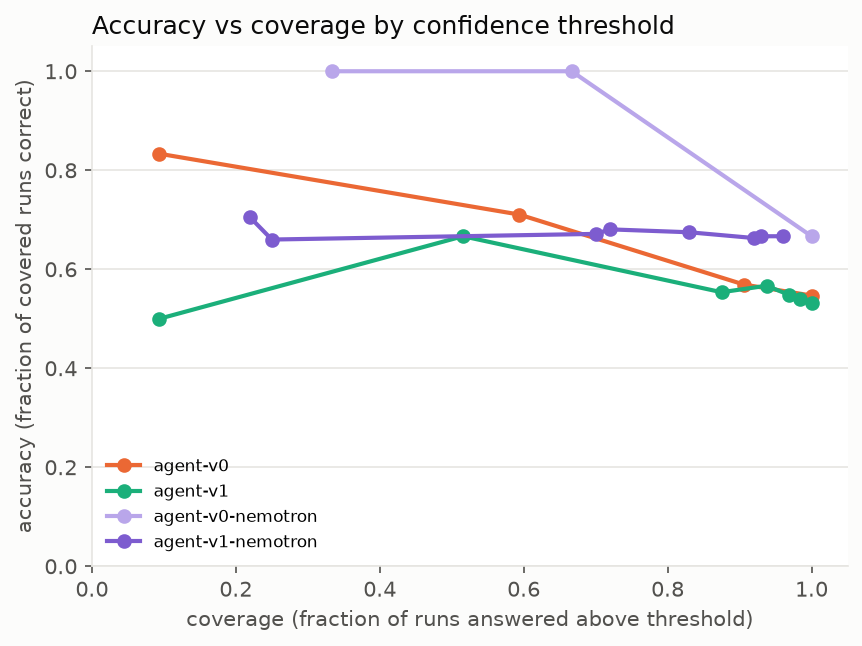
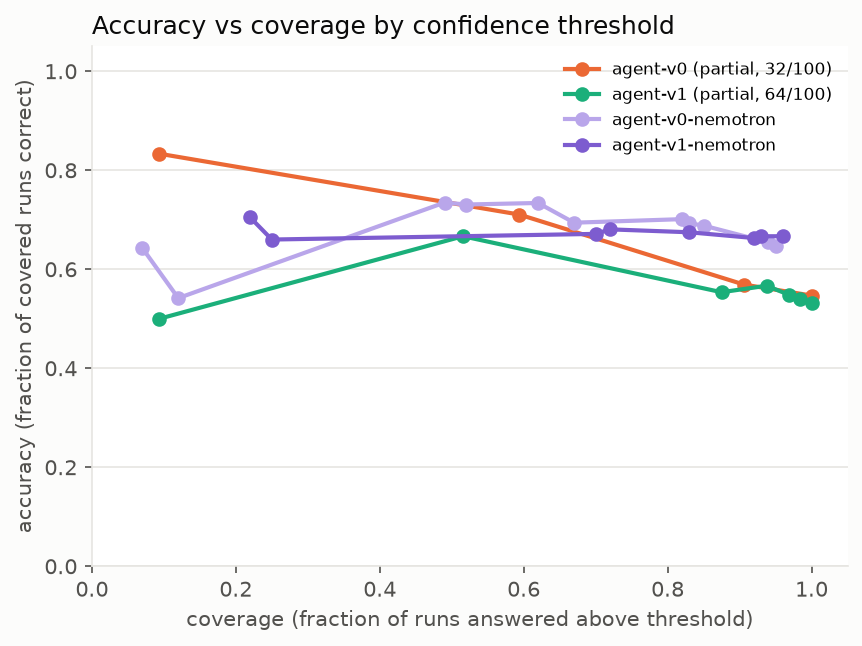
Report regenerated: all four Nemotron batches complete (v0, v1, no-priors, vague-alert); partial Gemini batches marked against planned runs

diff --git a/docs/results/report.md b/docs/results/report.md
@@ -8,51 +8,49 @@ Accuracy is the mean over scenarios of each scenario's mean; ± is the sd across
 
 | category | heuristic | agent-v0 | agent-v1 | agent-v1-nopriors | agent-v1-vague | agent-v0-nemotron | agent-v1-nemotron | agent-v1-nemotron-nopriors | agent-v1-nemotron-vague |
 |---|---|---|---|---|---|---|---|---|---|
-| easy | 0.67 ± - (3/3 sc, 1 run) | 0.67 ± - (3/3 sc, 1-2 runs) | 0.67 ± 0.00 (3/3 sc, 3-4 runs) | not run | not run | 1.00 ± - (1/3 sc, 1 run) | 0.87 ± 0.16 (3/3 sc, 5 runs) | not run | not run |
-| hard-cross-service | 0.00 ± - (3/3 sc, 1 run) | 0.00 ± - (3/3 sc, 1-2 runs) | 0.11 ± 0.16 (3/3 sc, 3 runs) | not run | not run | - | 0.33 ± 0.21 (3/3 sc, 5 runs) | not run | not run |
-| hard-silent | 0.83 ± - (6/6 sc, 1 run) | 0.42 ± - (6/6 sc, 1-2 runs) | 0.39 ± 0.21 (6/6 sc, 3-4 runs) | not run | not run | 0.50 ± - (2/6 sc, 1 run) | 0.80 ± 0.12 (6/6 sc, 5 runs) | not run | not run |
-| hard-noisy | 0.50 ± - (2/2 sc, 1 run) | 0.75 ± - (2/2 sc, 1-2 runs) | 0.67 ± 0.24 (2/2 sc, 3 runs) | not run | not run | - | 0.60 ± 0.20 (2/2 sc, 5 runs) | not run | not run |
-| hard-two-faults | 0.75 ± - (2/2 sc, 1 run) | 0.25 ± - (2/2 sc, 1-2 runs) | 0.17 ± 0.24 (2/2 sc, 3 runs) | not run | not run | - | 0.60 ± 0.25 (2/2 sc, 5 runs) | not run | not run |
-| control | 0.75 ± - (4/4 sc, 1 run) | 1.00 ± 0.00 (4/4 sc, 2 runs) | 1.00 ± 0.00 (4/4 sc, 3-4 runs) | not run | not run | - | 0.50 ± 0.16 (4/4 sc, 5 runs) | not run | not run |
-| all incidents | 0.59 ± - (16/16 sc, 1 run) | 0.41 ± - (16/16 sc, 1-2 runs) | 0.40 ± 0.11 (16/16 sc, 3-4 runs) | not run | not run | 0.67 ± - (3/16 sc, 1 run) | 0.68 ± 0.04 (16/16 sc, 5 runs) | not run | not run |
+| easy | 0.67 ± - (3/3 sc, 1 run) | 0.67 ± - (3/3 sc, 1-2 runs) | 0.67 ± 0.00 (3/3 sc, 3-4 runs) | not run | not run | 1.00 ± 0.00 (3/3 sc, 5 runs) | 0.87 ± 0.16 (3/3 sc, 5 runs) | 0.93 ± 0.13 (3/3 sc, 5 runs) | 0.87 ± 0.16 (3/3 sc, 5 runs) |
+| hard-cross-service | 0.00 ± - (3/3 sc, 1 run) | 0.00 ± - (3/3 sc, 1-2 runs) | 0.11 ± 0.16 (3/3 sc, 3 runs) | not run | not run | 0.67 ± 0.21 (3/3 sc, 5 runs) | 0.33 ± 0.21 (3/3 sc, 5 runs) | 0.27 ± 0.13 (3/3 sc, 5 runs) | 0.27 ± 0.25 (3/3 sc, 5 runs) |
+| hard-silent | 0.83 ± - (6/6 sc, 1 run) | 0.42 ± - (6/6 sc, 1-2 runs) | 0.39 ± 0.21 (6/6 sc, 3-4 runs) | not run | not run | 0.63 ± 0.12 (6/6 sc, 5 runs) | 0.80 ± 0.12 (6/6 sc, 5 runs) | 0.73 ± 0.13 (6/6 sc, 5 runs) | 0.57 ± 0.08 (6/6 sc, 5 runs) |
+| hard-noisy | 0.50 ± - (2/2 sc, 1 run) | 0.75 ± - (2/2 sc, 1-2 runs) | 0.67 ± 0.24 (2/2 sc, 3 runs) | not run | not run | 0.70 ± 0.24 (2/2 sc, 5 runs) | 0.60 ± 0.20 (2/2 sc, 5 runs) | 0.60 ± 0.20 (2/2 sc, 5 runs) | 0.60 ± 0.20 (2/2 sc, 5 runs) |
+| hard-two-faults | 0.75 ± - (2/2 sc, 1 run) | 0.25 ± - (2/2 sc, 1-2 runs) | 0.17 ± 0.24 (2/2 sc, 3 runs) | not run | not run | 0.45 ± 0.10 (2/2 sc, 5 runs) | 0.60 ± 0.25 (2/2 sc, 5 runs) | 0.75 ± 0.16 (2/2 sc, 5 runs) | 0.45 ± 0.10 (2/2 sc, 5 runs) |
+| control | 0.75 ± - (4/4 sc, 1 run) | 1.00 ± 0.00 (4/4 sc, 2 runs) | 1.00 ± 0.00 (4/4 sc, 3-4 runs) | not run | not run | 0.30 ± 0.19 (4/4 sc, 5 runs) | 0.50 ± 0.16 (4/4 sc, 5 runs) | 0.50 ± 0.16 (4/4 sc, 5 runs) | 0.25 ± 0.16 (4/4 sc, 5 runs) |
+| all incidents | 0.59 ± - (16/16 sc, 1 run) | 0.41 ± - (16/16 sc, 1-2 runs) | 0.40 ± 0.11 (16/16 sc, 3-4 runs) | not run | not run | 0.69 ± 0.07 (16/16 sc, 5 runs) | 0.68 ± 0.04 (16/16 sc, 5 runs) | 0.67 ± 0.05 (16/16 sc, 5 runs) | 0.56 ± 0.12 (16/16 sc, 5 runs) |
 
-agent-v0: partial batch (1-2 runs per scenario, 32/40 runs)
+agent-v0: partial batch (1-2 runs per scenario, 32/100 runs)
 
-agent-v1: partial batch (3-4 runs per scenario, 64/80 runs)
-
-agent-v0-nemotron: partial batch (0-1 runs per scenario, 3/20 runs)
+agent-v1: partial batch (3-4 runs per scenario, 64/100 runs)
 
 ### Split: tune
 
 | category | heuristic | agent-v0 | agent-v1 | agent-v1-nopriors | agent-v1-vague | agent-v0-nemotron | agent-v1-nemotron | agent-v1-nemotron-nopriors | agent-v1-nemotron-vague |
 |---|---|---|---|---|---|---|---|---|---|
-| easy | 1.00 ± - (2/2 sc, 1 run) | 0.50 ± - (2/2 sc, 1-2 runs) | 1.00 ± 0.00 (2/2 sc, 3-4 runs) | not run | not run | 1.00 ± - (1/2 sc, 1 run) | 1.00 ± 0.00 (2/2 sc, 5 runs) | not run | not run |
-| hard-cross-service | 0.00 ± - (2/2 sc, 1 run) | 0.00 ± - (2/2 sc, 1-2 runs) | 0.00 ± 0.00 (2/2 sc, 3 runs) | not run | not run | - | 0.30 ± 0.24 (2/2 sc, 5 runs) | not run | not run |
-| hard-silent | 0.80 ± - (5/5 sc, 1 run) | 0.50 ± - (5/5 sc, 1-2 runs) | 0.47 ± 0.25 (5/5 sc, 3-4 runs) | not run | not run | 0.50 ± - (2/5 sc, 1 run) | 0.76 ± 0.15 (5/5 sc, 5 runs) | not run | not run |
-| hard-noisy | 0.00 ± - (1/1 sc, 1 run) | 0.50 ± 0.50 (1/1 sc, 2 runs) | 0.33 ± 0.47 (1/1 sc, 3 runs) | not run | not run | - | 0.20 ± 0.40 (1/1 sc, 5 runs) | not run | not run |
-| hard-two-faults | 0.50 ± - (1/1 sc, 1 run) | 0.00 ± 0.00 (1/1 sc, 2 runs) | 0.17 ± 0.24 (1/1 sc, 3 runs) | not run | not run | - | 0.50 ± 0.32 (1/1 sc, 5 runs) | not run | not run |
-| control | 0.67 ± - (3/3 sc, 1 run) | 1.00 ± 0.00 (3/3 sc, 2 runs) | 1.00 ± 0.00 (3/3 sc, 3-4 runs) | not run | not run | - | 0.53 ± 0.16 (3/3 sc, 5 runs) | not run | not run |
-| all incidents | 0.59 ± - (11/11 sc, 1 run) | 0.36 ± - (11/11 sc, 1-2 runs) | 0.44 ± 0.12 (11/11 sc, 3-4 runs) | not run | not run | 0.67 ± - (3/11 sc, 1 run) | 0.65 ± 0.05 (11/11 sc, 5 runs) | not run | not run |
+| easy | 1.00 ± - (2/2 sc, 1 run) | 0.50 ± - (2/2 sc, 1-2 runs) | 1.00 ± 0.00 (2/2 sc, 3-4 runs) | not run | not run | 1.00 ± 0.00 (2/2 sc, 5 runs) | 1.00 ± 0.00 (2/2 sc, 5 runs) | 1.00 ± 0.00 (2/2 sc, 5 runs) | 1.00 ± 0.00 (2/2 sc, 5 runs) |
+| hard-cross-service | 0.00 ± - (2/2 sc, 1 run) | 0.00 ± - (2/2 sc, 1-2 runs) | 0.00 ± 0.00 (2/2 sc, 3 runs) | not run | not run | 0.60 ± 0.20 (2/2 sc, 5 runs) | 0.30 ± 0.24 (2/2 sc, 5 runs) | 0.30 ± 0.24 (2/2 sc, 5 runs) | 0.20 ± 0.24 (2/2 sc, 5 runs) |
+| hard-silent | 0.80 ± - (5/5 sc, 1 run) | 0.50 ± - (5/5 sc, 1-2 runs) | 0.47 ± 0.25 (5/5 sc, 3-4 runs) | not run | not run | 0.60 ± 0.18 (5/5 sc, 5 runs) | 0.76 ± 0.15 (5/5 sc, 5 runs) | 0.68 ± 0.16 (5/5 sc, 5 runs) | 0.48 ± 0.10 (5/5 sc, 5 runs) |
+| hard-noisy | 0.00 ± - (1/1 sc, 1 run) | 0.50 ± 0.50 (1/1 sc, 2 runs) | 0.33 ± 0.47 (1/1 sc, 3 runs) | not run | not run | 0.40 ± 0.49 (1/1 sc, 5 runs) | 0.20 ± 0.40 (1/1 sc, 5 runs) | 0.40 ± 0.49 (1/1 sc, 5 runs) | 0.20 ± 0.40 (1/1 sc, 5 runs) |
+| hard-two-faults | 0.50 ± - (1/1 sc, 1 run) | 0.00 ± 0.00 (1/1 sc, 2 runs) | 0.17 ± 0.24 (1/1 sc, 3 runs) | not run | not run | 0.40 ± 0.20 (1/1 sc, 5 runs) | 0.50 ± 0.32 (1/1 sc, 5 runs) | 0.60 ± 0.20 (1/1 sc, 5 runs) | 0.40 ± 0.20 (1/1 sc, 5 runs) |
+| control | 0.67 ± - (3/3 sc, 1 run) | 1.00 ± 0.00 (3/3 sc, 2 runs) | 1.00 ± 0.00 (3/3 sc, 3-4 runs) | not run | not run | 0.33 ± 0.21 (3/3 sc, 5 runs) | 0.53 ± 0.16 (3/3 sc, 5 runs) | 0.40 ± 0.13 (3/3 sc, 5 runs) | 0.27 ± 0.13 (3/3 sc, 5 runs) |
+| all incidents | 0.59 ± - (11/11 sc, 1 run) | 0.36 ± - (11/11 sc, 1-2 runs) | 0.44 ± 0.12 (11/11 sc, 3-4 runs) | not run | not run | 0.64 ± 0.08 (11/11 sc, 5 runs) | 0.65 ± 0.05 (11/11 sc, 5 runs) | 0.64 ± 0.08 (11/11 sc, 5 runs) | 0.49 ± 0.11 (11/11 sc, 5 runs) |
 
-agent-v0: partial batch (1-2 runs per scenario, 25/28 runs)
+agent-v0: partial batch (1-2 runs per scenario, 25/70 runs)
 
-agent-v1: partial batch (3-4 runs per scenario, 46/56 runs)
-
-agent-v0-nemotron: partial batch (0-1 runs per scenario, 3/14 runs)
+agent-v1: partial batch (3-4 runs per scenario, 46/70 runs)
 
 ### Split: heldout
 
 | category | heuristic | agent-v0 | agent-v1 | agent-v1-nopriors | agent-v1-vague | agent-v0-nemotron | agent-v1-nemotron | agent-v1-nemotron-nopriors | agent-v1-nemotron-vague |
 |---|---|---|---|---|---|---|---|---|---|
-| easy | 0.00 ± - (1/1 sc, 1 run) | 1.00 ± - (1/1 sc, 1 run) | 0.00 ± 0.00 (1/1 sc, 3 runs) | not run | not run | not run | 0.60 ± 0.49 (1/1 sc, 5 runs) | not run | not run |
-| hard-cross-service | 0.00 ± - (1/1 sc, 1 run) | 0.00 ± - (1/1 sc, 1 run) | 0.33 ± 0.47 (1/1 sc, 3 runs) | not run | not run | not run | 0.40 ± 0.49 (1/1 sc, 5 runs) | not run | not run |
-| hard-silent | 1.00 ± - (1/1 sc, 1 run) | 0.00 ± - (1/1 sc, 1 run) | 0.00 ± 0.00 (1/1 sc, 3 runs) | not run | not run | not run | 1.00 ± 0.00 (1/1 sc, 5 runs) | not run | not run |
-| hard-noisy | 1.00 ± - (1/1 sc, 1 run) | 1.00 ± - (1/1 sc, 1 run) | 1.00 ± 0.00 (1/1 sc, 3 runs) | not run | not run | not run | 1.00 ± 0.00 (1/1 sc, 5 runs) | not run | not run |
-| hard-two-faults | 1.00 ± - (1/1 sc, 1 run) | 0.50 ± - (1/1 sc, 1 run) | 0.17 ± 0.24 (1/1 sc, 3 runs) | not run | not run | not run | 0.70 ± 0.24 (1/1 sc, 5 runs) | not run | not run |
-| control | 1.00 ± - (1/1 sc, 1 run) | 1.00 ± 0.00 (1/1 sc, 2 runs) | 1.00 ± 0.00 (1/1 sc, 3 runs) | not run | not run | not run | 0.40 ± 0.49 (1/1 sc, 5 runs) | not run | not run |
-| all incidents | 0.60 ± - (5/5 sc, 1 run) | 0.50 ± - (5/5 sc, 1 run) | 0.30 ± 0.08 (5/5 sc, 3 runs) | not run | not run | not run | 0.74 ± 0.14 (5/5 sc, 5 runs) | not run | not run |
+| easy | 0.00 ± - (1/1 sc, 1 run) | 1.00 ± - (1/1 sc, 1 run) | 0.00 ± 0.00 (1/1 sc, 3 runs) | not run | not run | 1.00 ± 0.00 (1/1 sc, 5 runs) | 0.60 ± 0.49 (1/1 sc, 5 runs) | 0.80 ± 0.40 (1/1 sc, 5 runs) | 0.60 ± 0.49 (1/1 sc, 5 runs) |
+| hard-cross-service | 0.00 ± - (1/1 sc, 1 run) | 0.00 ± - (1/1 sc, 1 run) | 0.33 ± 0.47 (1/1 sc, 3 runs) | not run | not run | 0.80 ± 0.40 (1/1 sc, 5 runs) | 0.40 ± 0.49 (1/1 sc, 5 runs) | 0.20 ± 0.40 (1/1 sc, 5 runs) | 0.40 ± 0.49 (1/1 sc, 5 runs) |
+| hard-silent | 1.00 ± - (1/1 sc, 1 run) | 0.00 ± - (1/1 sc, 1 run) | 0.00 ± 0.00 (1/1 sc, 3 runs) | not run | not run | 0.80 ± 0.40 (1/1 sc, 5 runs) | 1.00 ± 0.00 (1/1 sc, 5 runs) | 1.00 ± 0.00 (1/1 sc, 5 runs) | 1.00 ± 0.00 (1/1 sc, 5 runs) |
+| hard-noisy | 1.00 ± - (1/1 sc, 1 run) | 1.00 ± - (1/1 sc, 1 run) | 1.00 ± 0.00 (1/1 sc, 3 runs) | not run | not run | 1.00 ± 0.00 (1/1 sc, 5 runs) | 1.00 ± 0.00 (1/1 sc, 5 runs) | 0.80 ± 0.40 (1/1 sc, 5 runs) | 1.00 ± 0.00 (1/1 sc, 5 runs) |
+| hard-two-faults | 1.00 ± - (1/1 sc, 1 run) | 0.50 ± - (1/1 sc, 1 run) | 0.17 ± 0.24 (1/1 sc, 3 runs) | not run | not run | 0.50 ± 0.00 (1/1 sc, 5 runs) | 0.70 ± 0.24 (1/1 sc, 5 runs) | 0.90 ± 0.20 (1/1 sc, 5 runs) | 0.50 ± 0.00 (1/1 sc, 5 runs) |
+| control | 1.00 ± - (1/1 sc, 1 run) | 1.00 ± 0.00 (1/1 sc, 2 runs) | 1.00 ± 0.00 (1/1 sc, 3 runs) | not run | not run | 0.20 ± 0.40 (1/1 sc, 5 runs) | 0.40 ± 0.49 (1/1 sc, 5 runs) | 0.80 ± 0.40 (1/1 sc, 5 runs) | 0.20 ± 0.40 (1/1 sc, 5 runs) |
+| all incidents | 0.60 ± - (5/5 sc, 1 run) | 0.50 ± - (5/5 sc, 1 run) | 0.30 ± 0.08 (5/5 sc, 3 runs) | not run | not run | 0.82 ± 0.10 (5/5 sc, 5 runs) | 0.74 ± 0.14 (5/5 sc, 5 runs) | 0.74 ± 0.15 (5/5 sc, 5 runs) | 0.70 ± 0.18 (5/5 sc, 5 runs) |
 
-agent-v0: partial batch (1-2 runs per scenario, 7/12 runs)
+agent-v0: partial batch (1-2 runs per scenario, 7/30 runs)
+
+agent-v1: partial batch (3 runs per scenario, 18/30 runs)
 
 Held-out categories have one scenario each; read the all-incidents row.
 
@@ -71,10 +69,10 @@ False alarm = claiming an incident on a control; abstain = insufficient evidence
 | agent-v1 | 0.00 | 0.00 |
 | agent-v1-nopriors | not run | not run |
 | agent-v1-vague | not run | not run |
-| agent-v0-nemotron | - | 0.00 |
+| agent-v0-nemotron | 0.60 | 0.04 |
 | agent-v1-nemotron | 0.35 | 0.01 |
-| agent-v1-nemotron-nopriors | not run | not run |
-| agent-v1-nemotron-vague | not run | not run |
+| agent-v1-nemotron-nopriors | 0.35 | 0.03 |
+| agent-v1-nemotron-vague | 0.70 | 0.06 |
 
 ## Evidence (all split, incidents)
 
@@ -89,8 +87,8 @@ Grounded = cited evidence exists in the snapshot; distinctive = it also looks an
 | agent-v1-vague | not run | not run |
 | agent-v0-nemotron | n/a (free-text evidence) | n/a (free-text evidence) |
 | agent-v1-nemotron | 0.98 | 0.89 |
-| agent-v1-nemotron-nopriors | not run | not run |
-| agent-v1-nemotron-vague | not run | not run |
+| agent-v1-nemotron-nopriors | 0.94 | 0.85 |
+| agent-v1-nemotron-vague | 0.97 | 0.90 |
 
 ## Paired comparisons (all split, fault incidents)
 
@@ -103,13 +101,13 @@ Each solver's mean score per incident, compared on the incidents both have run. 
 | agent-v1 vs agent-v0 | 16/16 | 4 / 7 / 5 | -0.01 | -0.23 to +0.21 |
 | agent-v1-nemotron vs heuristic | 16/16 | 5 / 8 / 3 | +0.08 | -0.05 to +0.23 |
 | agent-v1-nemotron vs agent-v1 | 16/16 | 10 / 4 / 2 | +0.28 | +0.12 to +0.45 |
-| agent-v1-nemotron vs agent-v0-nemotron | 3/16 | 1 / 1 / 1 | +0.13 | n/a (too few incidents or no spread) |
+| agent-v1-nemotron vs agent-v0-nemotron | 16/16 | 6 / 4 / 6 | -0.02 | -0.14 to +0.11 |
+| agent-v1-nemotron-nopriors vs agent-v1-nemotron | 16/16 | 4 / 8 / 4 | -0.01 | -0.07 to +0.06 |
+| agent-v1-nemotron-vague vs agent-v1-nemotron | 16/16 | 1 / 9 / 6 | -0.12 | -0.25 to -0.01 |
 
-agent-v0: partial batch (1-2 runs per scenario, 32/40 runs)
+agent-v0: partial batch (1-2 runs per scenario, 32/100 runs)
 
-agent-v1: partial batch (3-4 runs per scenario, 64/80 runs)
-
-agent-v0-nemotron: partial batch (0-1 runs per scenario, 3/20 runs)
+agent-v1: partial batch (3-4 runs per scenario, 64/100 runs)
 
 ## Step limit (all split, fault runs)
 
@@ -119,8 +117,10 @@ An agent that is still calling tools after 15 model turns is told to give its fi
 |---|---|---|---|---|---|
 | agent-v0 | 24 | 9 (38%) | 3 of 9 | 0.56 | 0.30 |
 | agent-v1 | 51 | 32 (63%) | 19 of 32 | 0.28 | 0.63 |
-| agent-v0-nemotron | 3 | 3 (100%) | 0 of 3 | 0.67 | - |
+| agent-v0-nemotron | 80 | 77 (96%) | 0 of 77 | 0.69 | 0.67 |
 | agent-v1-nemotron | 80 | 57 (71%) | 2 of 57 | 0.61 | 0.83 |
+| agent-v1-nemotron-nopriors | 80 | 53 (66%) | 0 of 53 | 0.62 | 0.76 |
+| agent-v1-nemotron-vague | 80 | 64 (80%) | 3 of 64 | 0.51 | 0.75 |
 
 ## Cost
 
@@ -133,10 +133,10 @@ The heuristic makes no model calls, so it has no token usage.
 | agent-v1 | 64 / 64 | 14.12 | 16 | 75211 | 524 | 142560 |
 | agent-v1-nopriors | not run | not run | not run | not run | not run | not run |
 | agent-v1-vague | not run | not run | not run | not run | not run | not run |
-| agent-v0-nemotron | 3 / 3 | 16.00 | 16 | 69030 | 3032 | 108093 |
+| agent-v0-nemotron | 100 / 100 | 15.96 | 17 | 74265 | 3274 | 126080 |
 | agent-v1-nemotron | 100 / 100 | 15.06 | 17 | 94309 | 3761 | 153234 |
-| agent-v1-nemotron-nopriors | not run | not run | not run | not run | not run | not run |
-| agent-v1-nemotron-vague | not run | not run | not run | not run | not run | not run |
+| agent-v1-nemotron-nopriors | 100 / 100 | 14.85 | 17 | 89252 | 3534 | 146119 |
+| agent-v1-nemotron-vague | 100 / 100 | 15.17 | 17 | 89947 | 3687 | 189160 |
 
 ## Per-scenario accuracy
 
@@ -144,26 +144,26 @@ The heuristic makes no model calls, so it has no token usage.
 
 | scenario | category | heuristic | agent-v0 | agent-v1 | agent-v1-nopriors | agent-v1-vague | agent-v0-nemotron | agent-v1-nemotron | agent-v1-nemotron-nopriors | agent-v1-nemotron-vague |
 |---|---|---|---|---|---|---|---|---|---|---|
-| ad-failure | easy | 1.00 (1 run) | 1.00 (2 runs) | 1.00 (4 runs) | not run | not run | 1.00 (1 run) | 1.00 (5 runs) | not run | not run |
-| ad-high-cpu | hard-silent | 1.00 (1 run) | 0.00 (2 runs) | 0.00 (4 runs) | not run | not run | 0.00 (1 run) | 0.60 (5 runs) | not run | not run |
-| checkout-cpu-throttle | hard-silent | 1.00 (1 run) | 1.00 (2 runs) | 1.00 (4 runs) | not run | not run | 1.00 (1 run) | 0.80 (5 runs) | not run | not run |
-| control-1 | control | 1.00 (1 run) | 1.00 (2 runs) | 1.00 (4 runs) | not run | not run | - | 0.80 (5 runs) | not run | not run |
-| control-2 | control | 0.00 (1 run) | 1.00 (2 runs) | 1.00 (3 runs) | not run | not run | - | 0.00 (5 runs) | not run | not run |
-| control-3 | control | 1.00 (1 run) | 1.00 (2 runs) | 1.00 (3 runs) | not run | not run | - | 0.80 (5 runs) | not run | not run |
-| control-4* | control | 1.00 (1 run) | 1.00 (2 runs) | 1.00 (3 runs) | not run | not run | - | 0.40 (5 runs) | not run | not run |
-| email-memory-leak | hard-silent | 1.00 (1 run) | 0.00 (2 runs) | 0.67 (3 runs) | not run | not run | - | 1.00 (5 runs) | not run | not run |
-| image-slow-load-and-ad-high-cpu | hard-two-faults | 0.50 (1 run) | 0.00 (2 runs) | 0.17 (3 runs) | not run | not run | - | 0.50 (5 runs) | not run | not run |
-| image-slow-load | hard-silent | 1.00 (1 run) | 0.50 (2 runs) | 0.33 (3 runs) | not run | not run | - | 1.00 (5 runs) | not run | not run |
-| kafka-queue-problems | hard-cross-service | 0.00 (1 run) | 0.00 (2 runs) | 0.00 (3 runs) | not run | not run | - | 0.00 (5 runs) | not run | not run |
-| lock-contention-with-flood | hard-noisy | 0.00 (1 run) | 0.50 (2 runs) | 0.33 (3 runs) | not run | not run | - | 0.20 (5 runs) | not run | not run |
-| payment-failure-50 | easy | 1.00 (1 run) | 0.00 (1 run) | 1.00 (3 runs) | not run | not run | - | 1.00 (5 runs) | not run | not run |
-| payment-failure-and-recommendation-leak* | hard-two-faults | 1.00 (1 run) | 0.50 (1 run) | 0.17 (3 runs) | not run | not run | - | 0.70 (5 runs) | not run | not run |
-| payment-failure-with-flood* | hard-noisy | 1.00 (1 run) | 1.00 (1 run) | 1.00 (3 runs) | not run | not run | - | 1.00 (5 runs) | not run | not run |
-| payment-unreachable | hard-cross-service | 0.00 (1 run) | 0.00 (1 run) | 0.00 (3 runs) | not run | not run | - | 0.60 (5 runs) | not run | not run |
-| product-catalog-failure* | easy | 0.00 (1 run) | 1.00 (1 run) | 0.00 (3 runs) | not run | not run | - | 0.60 (5 runs) | not run | not run |
-| product-catalog-lock-contention | hard-silent | 0.00 (1 run) | 1.00 (1 run) | 0.33 (3 runs) | not run | not run | - | 0.40 (5 runs) | not run | not run |
-| recommendation-cache-leak* | hard-silent | 1.00 (1 run) | 0.00 (1 run) | 0.00 (3 runs) | not run | not run | - | 1.00 (5 runs) | not run | not run |
-| valkey-cart-paused* | hard-cross-service | 0.00 (1 run) | 0.00 (1 run) | 0.33 (3 runs) | not run | not run | - | 0.40 (5 runs) | not run | not run |
+| ad-failure | easy | 1.00 (1 run) | 1.00 (2 runs) | 1.00 (4 runs) | not run | not run | 1.00 (5 runs) | 1.00 (5 runs) | 1.00 (5 runs) | 1.00 (5 runs) |
+| ad-high-cpu | hard-silent | 1.00 (1 run) | 0.00 (2 runs) | 0.00 (4 runs) | not run | not run | 0.00 (5 runs) | 0.60 (5 runs) | 0.40 (5 runs) | 0.00 (5 runs) |
+| checkout-cpu-throttle | hard-silent | 1.00 (1 run) | 1.00 (2 runs) | 1.00 (4 runs) | not run | not run | 0.60 (5 runs) | 0.80 (5 runs) | 0.80 (5 runs) | 1.00 (5 runs) |
+| control-1 | control | 1.00 (1 run) | 1.00 (2 runs) | 1.00 (4 runs) | not run | not run | 0.40 (5 runs) | 0.80 (5 runs) | 0.60 (5 runs) | 0.20 (5 runs) |
+| control-2 | control | 0.00 (1 run) | 1.00 (2 runs) | 1.00 (3 runs) | not run | not run | 0.00 (5 runs) | 0.00 (5 runs) | 0.00 (5 runs) | 0.00 (5 runs) |
+| control-3 | control | 1.00 (1 run) | 1.00 (2 runs) | 1.00 (3 runs) | not run | not run | 0.60 (5 runs) | 0.80 (5 runs) | 0.60 (5 runs) | 0.60 (5 runs) |
+| control-4* | control | 1.00 (1 run) | 1.00 (2 runs) | 1.00 (3 runs) | not run | not run | 0.20 (5 runs) | 0.40 (5 runs) | 0.80 (5 runs) | 0.20 (5 runs) |
+| email-memory-leak | hard-silent | 1.00 (1 run) | 0.00 (2 runs) | 0.67 (3 runs) | not run | not run | 1.00 (5 runs) | 1.00 (5 runs) | 1.00 (5 runs) | 0.20 (5 runs) |
+| image-slow-load-and-ad-high-cpu | hard-two-faults | 0.50 (1 run) | 0.00 (2 runs) | 0.17 (3 runs) | not run | not run | 0.40 (5 runs) | 0.50 (5 runs) | 0.60 (5 runs) | 0.40 (5 runs) |
+| image-slow-load | hard-silent | 1.00 (1 run) | 0.50 (2 runs) | 0.33 (3 runs) | not run | not run | 0.80 (5 runs) | 1.00 (5 runs) | 1.00 (5 runs) | 1.00 (5 runs) |
+| kafka-queue-problems | hard-cross-service | 0.00 (1 run) | 0.00 (2 runs) | 0.00 (3 runs) | not run | not run | 0.40 (5 runs) | 0.00 (5 runs) | 0.00 (5 runs) | 0.00 (5 runs) |
+| lock-contention-with-flood | hard-noisy | 0.00 (1 run) | 0.50 (2 runs) | 0.33 (3 runs) | not run | not run | 0.40 (5 runs) | 0.20 (5 runs) | 0.40 (5 runs) | 0.20 (5 runs) |
+| payment-failure-50 | easy | 1.00 (1 run) | 0.00 (1 run) | 1.00 (3 runs) | not run | not run | 1.00 (5 runs) | 1.00 (5 runs) | 1.00 (5 runs) | 1.00 (5 runs) |
+| payment-failure-and-recommendation-leak* | hard-two-faults | 1.00 (1 run) | 0.50 (1 run) | 0.17 (3 runs) | not run | not run | 0.50 (5 runs) | 0.70 (5 runs) | 0.90 (5 runs) | 0.50 (5 runs) |
+| payment-failure-with-flood* | hard-noisy | 1.00 (1 run) | 1.00 (1 run) | 1.00 (3 runs) | not run | not run | 1.00 (5 runs) | 1.00 (5 runs) | 0.80 (5 runs) | 1.00 (5 runs) |
+| payment-unreachable | hard-cross-service | 0.00 (1 run) | 0.00 (1 run) | 0.00 (3 runs) | not run | not run | 0.80 (5 runs) | 0.60 (5 runs) | 0.60 (5 runs) | 0.40 (5 runs) |
+| product-catalog-failure* | easy | 0.00 (1 run) | 1.00 (1 run) | 0.00 (3 runs) | not run | not run | 1.00 (5 runs) | 0.60 (5 runs) | 0.80 (5 runs) | 0.60 (5 runs) |
+| product-catalog-lock-contention | hard-silent | 0.00 (1 run) | 1.00 (1 run) | 0.33 (3 runs) | not run | not run | 0.60 (5 runs) | 0.40 (5 runs) | 0.20 (5 runs) | 0.20 (5 runs) |
+| recommendation-cache-leak* | hard-silent | 1.00 (1 run) | 0.00 (1 run) | 0.00 (3 runs) | not run | not run | 0.80 (5 runs) | 1.00 (5 runs) | 1.00 (5 runs) | 1.00 (5 runs) |
+| valkey-cart-paused* | hard-cross-service | 0.00 (1 run) | 0.00 (1 run) | 0.33 (3 runs) | not run | not run | 0.80 (5 runs) | 0.40 (5 runs) | 0.20 (5 runs) | 0.40 (5 runs) |
 
 ## Accuracy vs coverage (all split, record-level)
 
@@ -171,13 +171,17 @@ The heuristic makes no model calls, so it has no token usage.
 
 Coverage is the fraction of all runs whose answer is at or above the confidence threshold (abstentions never count). Accuracy here is over answered runs only, so the lowest-threshold point can exceed the tables' accuracy, which counts abstentions as wrong.
 
-agent-v0: accuracy 0.71 at 59% coverage (the curve point nearest 50%, confidence >= 0.95). Partial batch (1-2 runs per scenario, 32/40 runs): treat with caution.
+agent-v0: accuracy 0.71 at 59% coverage (the curve point nearest 50%, confidence >= 0.95). Partial batch (1-2 runs per scenario, 32/100 runs): treat with caution.
 
-agent-v1: accuracy 0.67 at 52% coverage (the curve point nearest 50%, confidence >= 0.95). Partial batch (3-4 runs per scenario, 64/80 runs): treat with caution.
+agent-v1: accuracy 0.67 at 52% coverage (the curve point nearest 50%, confidence >= 0.95). Partial batch (3-4 runs per scenario, 64/100 runs): treat with caution.
 
-agent-v0-nemotron: accuracy 1.00 at 67% coverage (the curve point nearest 50%, confidence >= 0.85). Partial batch (0-1 runs per scenario, 3/20 runs): treat with caution.
+agent-v0-nemotron: accuracy 0.73 at 49% coverage (the curve point nearest 50%, confidence >= 0.90).
 
 agent-v1-nemotron: accuracy 0.67 at 70% coverage (the curve point nearest 50%, confidence >= 0.90).
+
+agent-v1-nemotron-nopriors: accuracy 0.60 at 31% coverage (the curve point nearest 50%, confidence >= 0.92).
+
+agent-v1-nemotron-vague: accuracy 0.54 at 68% coverage (the curve point nearest 50%, confidence >= 0.90).
 
 ## Provenance
 
@@ -190,13 +194,13 @@ Code versions (git short sha) of the records behind each solver:
 - agent-v1-vague: not run
 - agent-v0-nemotron: cfa0c6e
 - agent-v1-nemotron: 8b4fefb
-- agent-v1-nemotron-nopriors: not run
-- agent-v1-nemotron-vague: not run
+- agent-v1-nemotron-nopriors: dc26375
+- agent-v1-nemotron-vague: dc26375
 
-During week-3 development a reviewer viewed v1 tool output on one held-out incident (valkey-cart-paused); the incomplete-services list, which no tuning snapshot exercised, was removed before any v1 run; the other changes from that commit (stopped service-map edges, the 'after = 0 can mean the service stopped reporting' caveat) are each exercised by the tuning snapshot payment-unreachable.
+During agent-v1 development, v1 tool output was viewed on one held-out incident (valkey-cart-paused). The one feature it suggested that no tuning snapshot exercised (an incomplete-services list) was removed before any v1 run; the other changes from that time (stopped service-map edges, the 'after = 0 can mean the service stopped reporting' caveat) are each exercised by the tuning snapshot payment-unreachable.
 
 ## Not run
 
-Solvers with no recorded runs: agent-v1-nopriors, agent-v1-vague, agent-v1-nemotron-nopriors, agent-v1-nemotron-vague.
+Solvers with no recorded runs: agent-v1-nopriors, agent-v1-vague.
 
-A Flash vs Flash-Lite comparison is absent: Flash's free tier allows 20 requests/day and one agent run takes about 10, so the Gemini agents run on `gemini-3.5-flash-lite` only. The model comparison is instead agent-v1-nemotron: agent v1 unchanged (prompt, tools, step limit) on `nvidia/nemotron-3-super-120b-a12b` through NVIDIA's free trial endpoint.
+A Flash vs Flash-Lite comparison is absent: Flash's free tier allows 20 requests/day and one agent run takes about 12-15 requests (up to 17), so the Gemini agents run on `gemini-3.5-flash-lite` only. The model comparison is instead agent-v1-nemotron: agent v1 unchanged (prompt, tools, step limit) on `nvidia/nemotron-3-super-120b-a12b` through NVIDIA's free trial endpoint.
